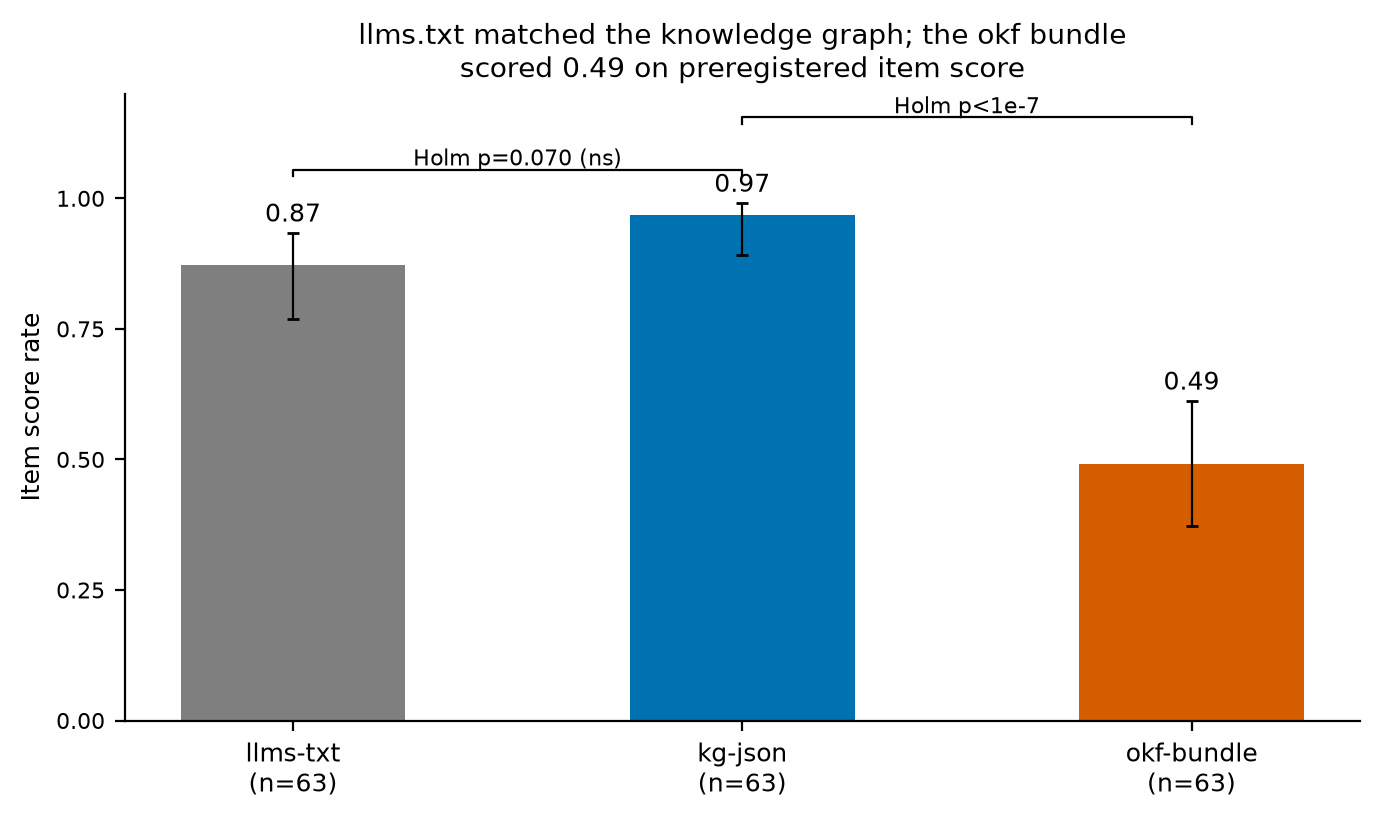
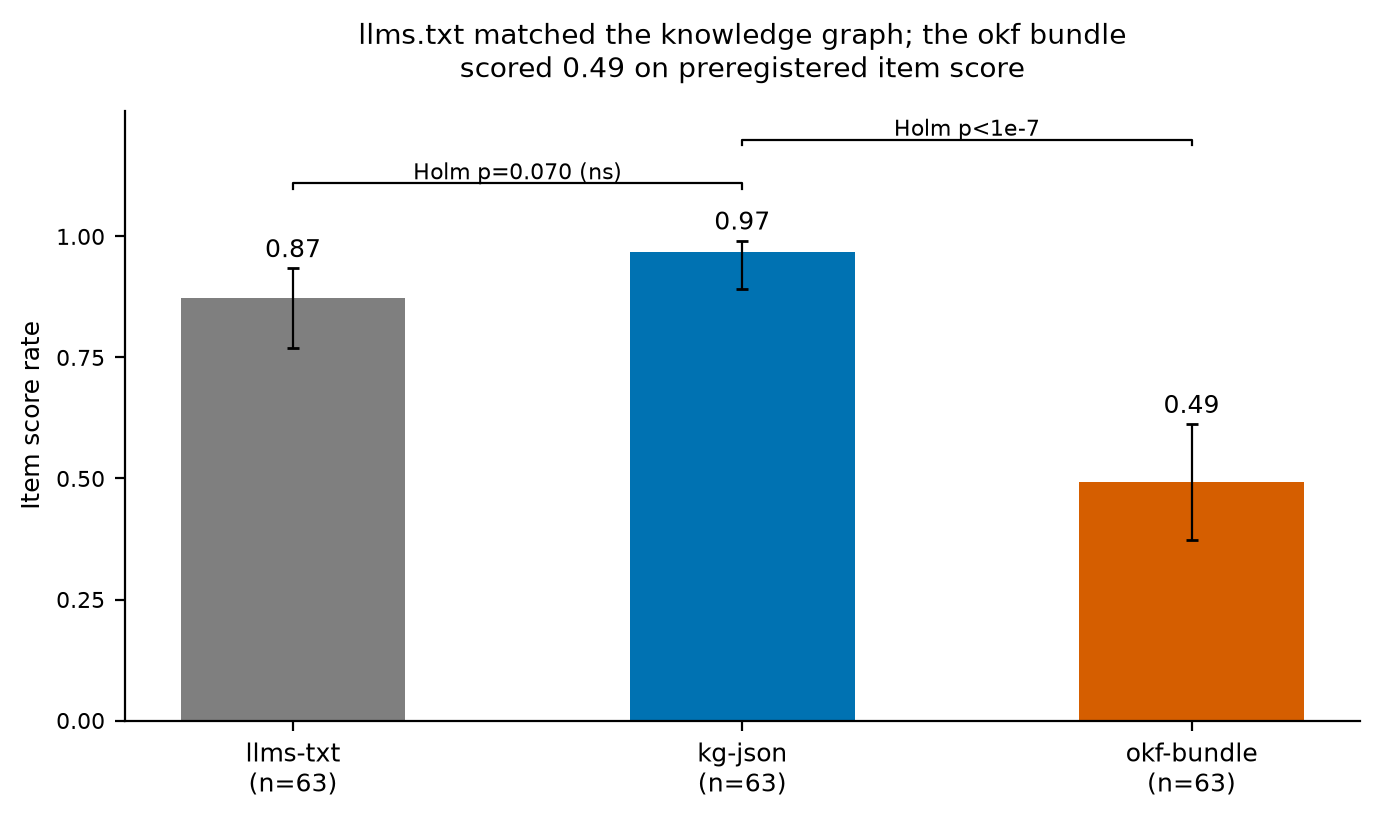
docs(exhibit): simplify citation section, separate fig1 title from bracket (#14)
* docs(exhibit): simplify citation section, separate fig1 title from bracket

* fix(figures): raise fig1 ns bracket clear of bar value label

* docs(figures): state figure 2 takeaway in title and caption

---------

diff --git a/figures/fig1-arm-comparison.py b/figures/fig1-arm-comparison.py
@@ -21,8 +21,8 @@ ARMS = ["llms-txt", "kg-json", "okf-bundle"]
 COLORS = {"llms-txt": "#7f7f7f", "kg-json": "#0072B2", "okf-bundle": "#D55E00"}
 # Holm-adjusted McNemar exact p-values from results/analysis-v2.json.
 BRACKETS = [
-    ("llms-txt", "kg-json", "Holm p=0.070 (ns)", 1.055),
-    ("kg-json", "okf-bundle", "Holm p<1e-7", 1.155),
+    ("llms-txt", "kg-json", "Holm p=0.070 (ns)", 1.11),
+    ("kg-json", "okf-bundle", "Holm p<1e-7", 1.20),
 ]
 
 
@@ -72,7 +72,7 @@ def main():
     ax.set_xticklabels([f"{a}\n(n={counts[a][1]})" for a in arms], fontsize=9)
     ax.set_ylabel("Item score rate", fontsize=9)
     ax.tick_params(axis="y", labelsize=8)
-    ax.set_ylim(0, 1.2)
+    ax.set_ylim(0, 1.26)
     ax.set_yticks([0, 0.25, 0.5, 0.75, 1.0])
 
     for left, right, label, y in BRACKETS:
@@ -82,7 +82,8 @@ def main():
         ax.text((x0 + x1) / 2, y + 0.008, label, ha="center", fontsize=8)
 
     ax.set_title("llms.txt matched the knowledge graph; the okf bundle\n"
-                 "scored 0.49 on preregistered item score", fontsize=10)
+                 "scored 0.49 on preregistered item score",
+                 fontsize=10, pad=12)
     fig.tight_layout()
     out = pathlib.Path(__file__).resolve().parent / "fig1-arm-comparison.png"
     fig.savefig(out, bbox_inches="tight")

diff --git a/figures/fig2-partial-credit.py b/figures/fig2-partial-credit.py
@@ -68,8 +68,9 @@ def main():
                   fontsize=9)
     ax.tick_params(axis="y", labelsize=8)
     ax.set_ylim(-0.05, 1.07)
-    ax.set_title("Partial credit separates kg-json from both other arms",
-                 fontsize=10)
+    ax.set_title("kg-json's answers carry the most credit; llms.txt earns\n"
+                 "its item score through abstention, not richer answers",
+                 fontsize=10, pad=8)
     ax.text(0.5, -0.24, ANNOTATION, transform=ax.transAxes, ha="center",
             fontsize=7.5)
     fig.subplots_adjust(bottom=0.3)

diff --git a/README.md b/README.md
@@ -98,7 +98,7 @@ Figure scripts live in `figures/` and render from committed `results/raw-v2/` re
 
 ![Per-arm partial-credit distributions with the preregistered paired permutation annotation](figures/fig2-partial-credit.png)
 
-*Figure 2: Secondary endpoint. Per-arm partial-credit distributions (jittered strip over box plot; dice overlap on set-valued families, integer fraction on F2) with the sealed paired permutation results. kg-json separates from both arms on partial credit; llms.txt and okf-bundle do not separate (p = 0.44) despite a 38-point item-score gap.*
+*Figure 2: Secondary endpoint, and why it exists: the primary endpoint cannot separate llms.txt from kg-json, so this asks whether kg-json's answers are actually richer. Paired permutation on partial credit (jittered strip over box plot; dice overlap on set-valued families, integer fraction on F2): kg-json separates from both arms (p < 1e-4); llms.txt and okf-bundle do not (p = 0.44) despite a 38-point item-score gap. The distributions show the mechanism: llms.txt piles up at 0 (correct abstentions) and 1, okf-bundle smears across the middle on partial extraction, so the composite item score mixes the two and must be read with Figure 3's conditional accuracies.*
 
 ![Conditional extraction and abstention accuracy per arm](figures/fig3-conditional-accuracy.png)
 
@@ -114,7 +114,7 @@ Figure scripts live in `figures/` and render from committed `results/raw-v2/` re
 
 ## Citing This Work
 
-See [CITATION.cff](CITATION.cff). Concept DOI: 10.5281/zenodo.24410380; current version DOI: 10.5281/zenodo.24424679 (v2.1.3; superseded snapshots: 24424627 v2.1.2, 24424532 v2.1.1, 24422535 v2.1.0); v1 seal: 10.5281/zenodo.24410381.
+See [CITATION.cff](CITATION.cff). Concept DOI: 10.5281/zenodo.24410380; current version: 10.5281/zenodo.24424679. The archived v1 seal is DOI 10.5281/zenodo.24410381; superseded v2.1.x snapshots are listed on the Zenodo record.
 
 ## Repository Setup
 

diff --git a/results/findings.md b/results/findings.md
@@ -60,4 +60,4 @@ The discriminative signal sits in F4 and F3: on items every arm can answer in pr
 - Raw records: `results/raw-v2/{llms-txt,kg-json,okf-bundle}/run-001..063.json` (full raw responses, usage, finish reason, sealed scores).
 - Statistics: `results/analysis-v2.json` (schema in [DATA_DICTIONARY.md](../DATA_DICTIONARY.md)).
 - Questions: `ground-truth/blinded-*-v2.1.json` (pre-run, blinded) and `ground-truth/full-v2.1.json` (plaintext, committed with raw outputs per the seal blinding note).
-- Deposit: Zenodo DOI 10.5281/zenodo.24424679 (v2.1.3, single-zip artifact set) under concept DOI 10.5281/zenodo.24410380; superseded snapshots 10.5281/zenodo.24424627 (v2.1.2), 10.5281/zenodo.24424532 (v2.1.1), 10.5281/zenodo.24422535 (v2.1.0).
+- Deposit: Zenodo DOI 10.5281/zenodo.24424679 (single-zip artifact set) under concept DOI 10.5281/zenodo.24410380; superseded v2.1.x snapshots are listed on the Zenodo record.
